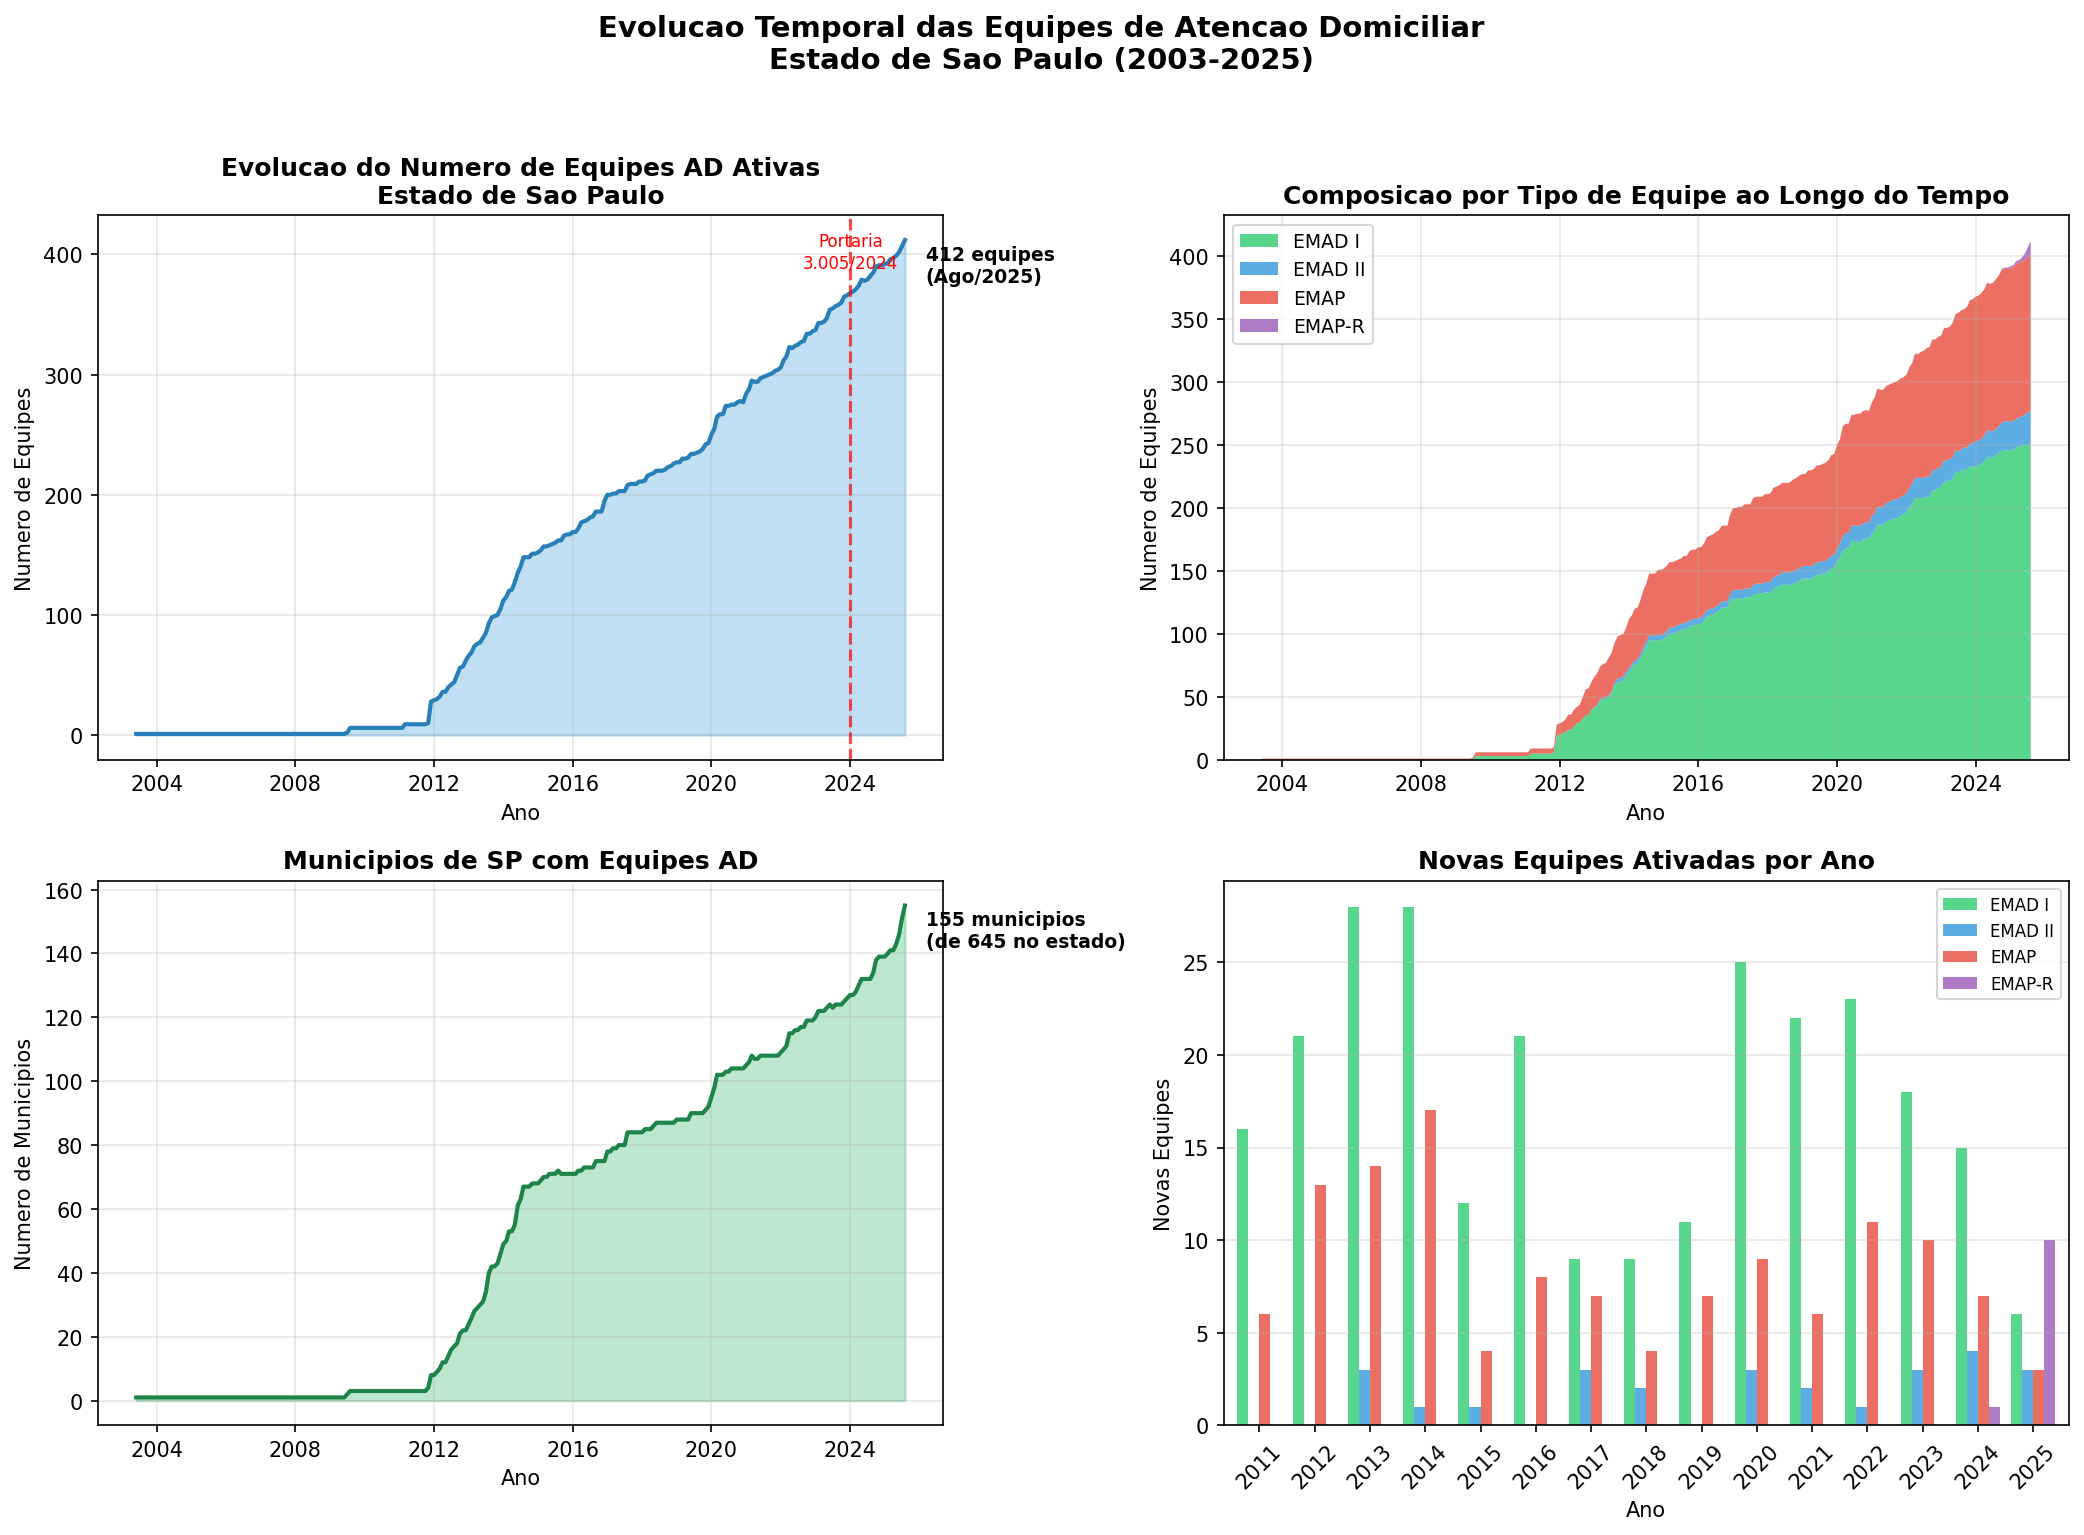
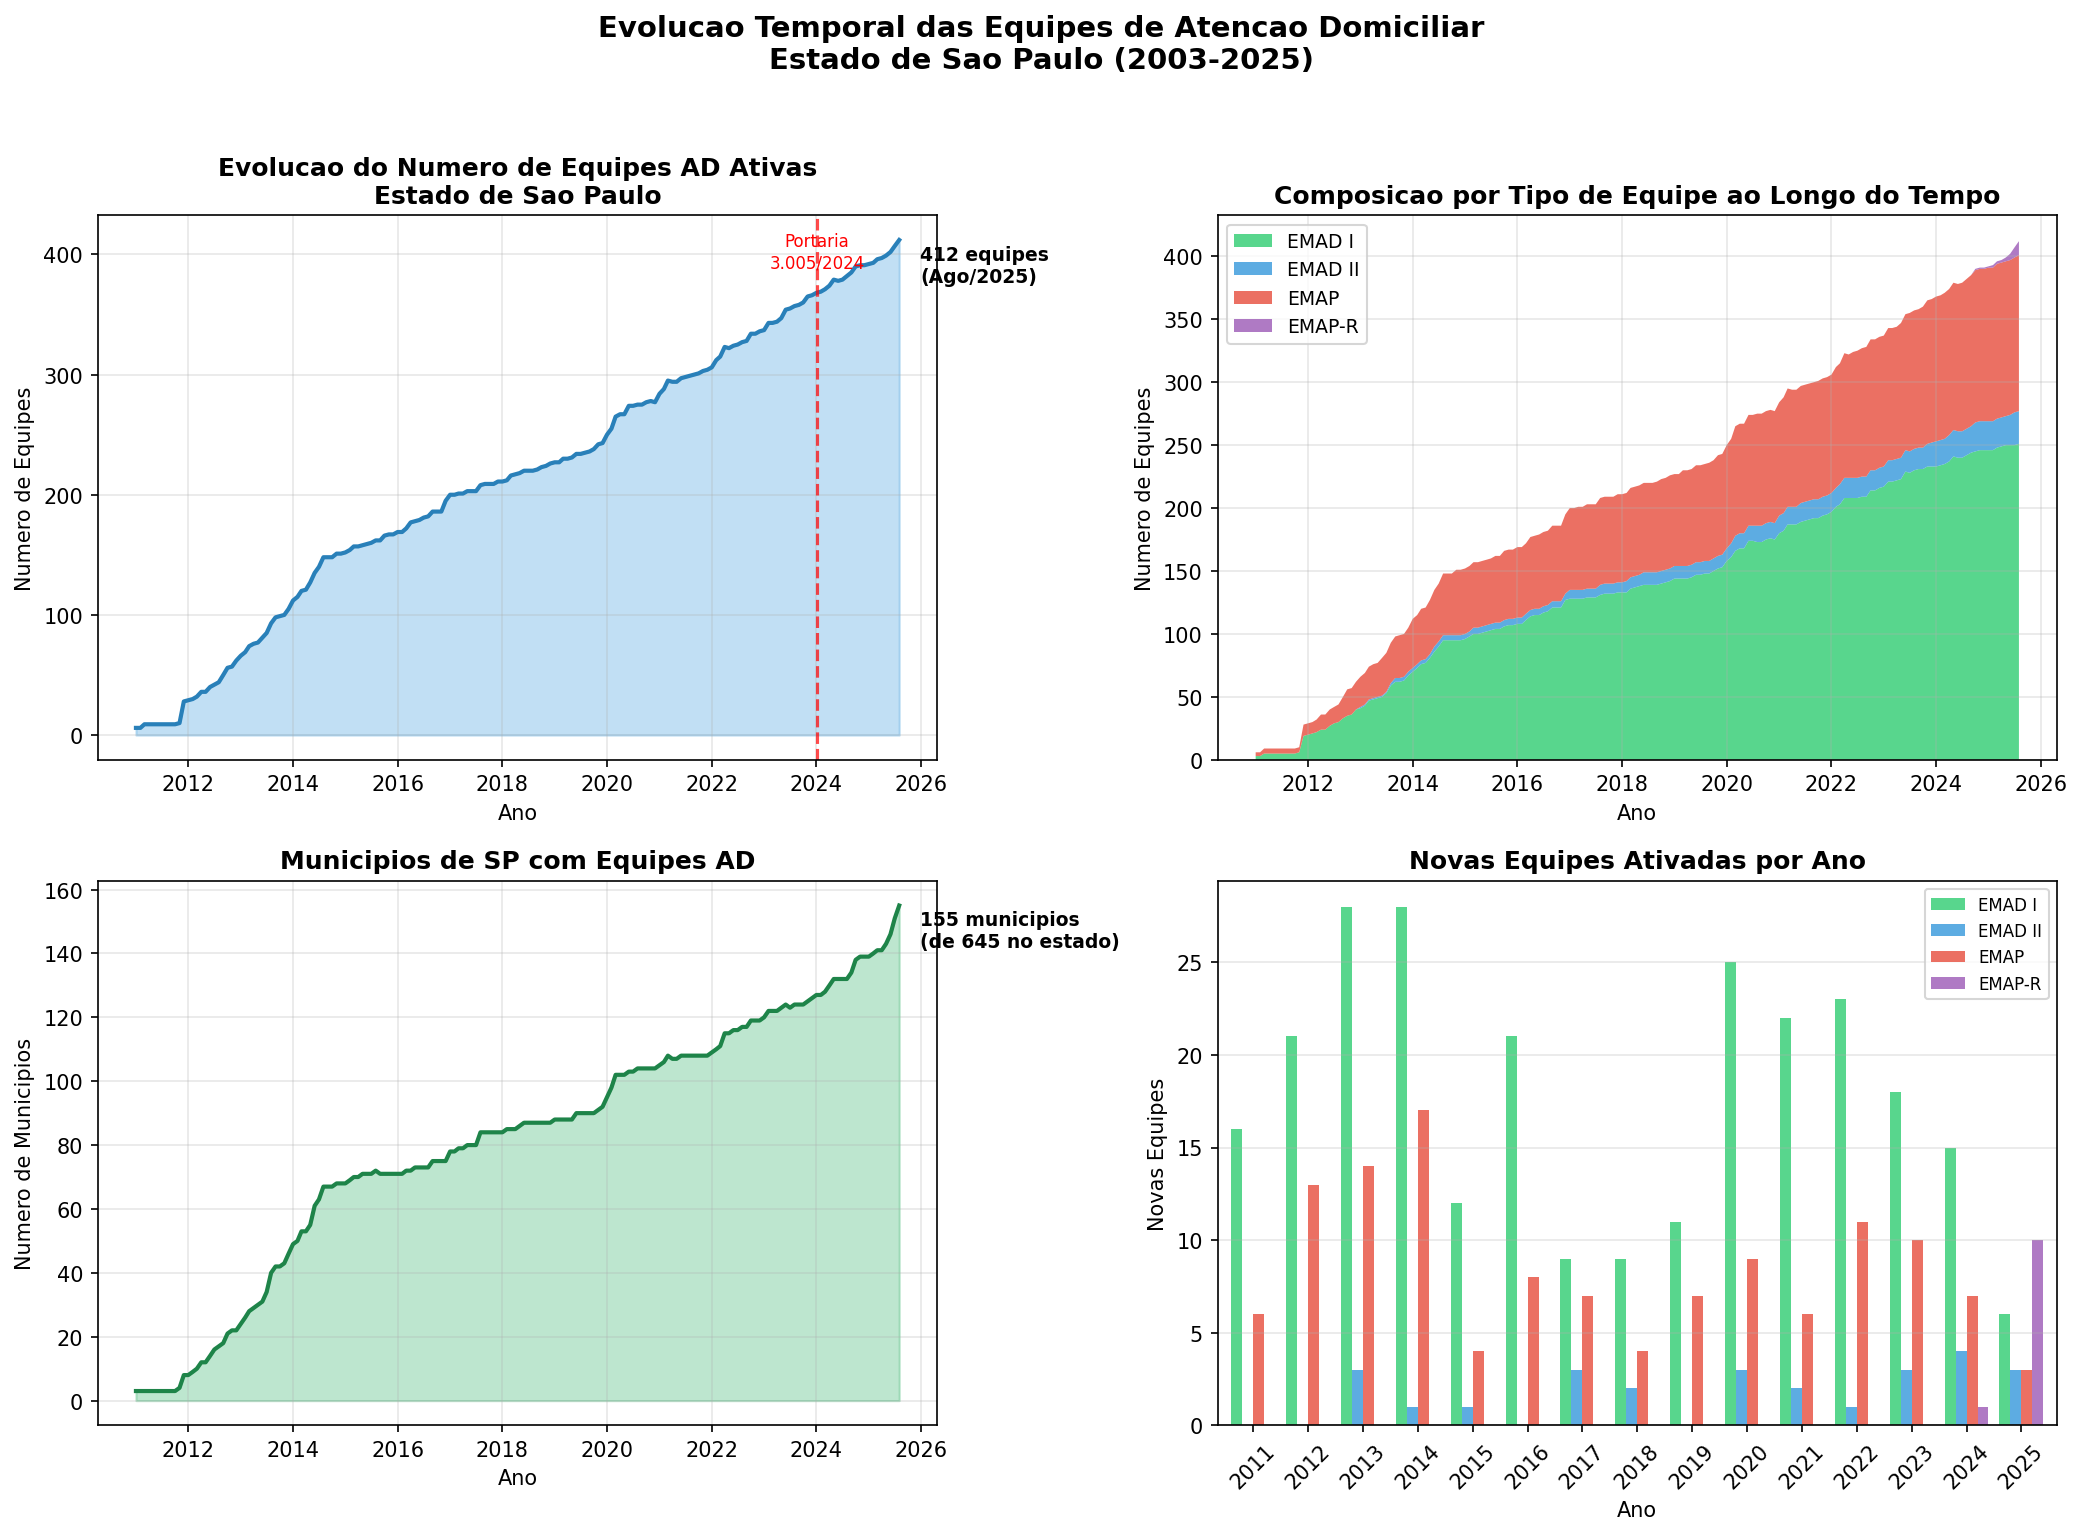
fix(PARTE4): corrige periodo temporal para 2011 (inicio Melhor em Casa)
- Programa Melhor em Casa foi criado em nov/2011 (Portaria 2.527/2011)
- CNES tem 6 registros anteriores (2003: 1, 2009: 5) de programas precursores
- Visualizacao agora comeca em 2011, nao em 2003
- README atualizado com nota explicativa sobre dados pre-2011

diff --git a/Outputs&Codigo/PARTE4/visualizacao_temporal.py b/Outputs&Codigo/PARTE4/visualizacao_temporal.py
@@ -66,8 +66,10 @@ def carregar_equipes():
 def calcular_evolucao_mensal(df):
     """Calcula numero de equipes ativas em cada mes."""
     
-    # Gerar serie de meses desde primeira ativacao ate hoje
-    data_inicio = df['DT_ATIVACAO'].min().replace(day=1)
+    # Programa Melhor em Casa foi criado em novembro de 2011
+    # Existem 6 registros anteriores no CNES (2003: 1, 2009: 5) que sao
+    # provavelmente equipes de programas precursores reclassificadas
+    data_inicio = datetime(2011, 1, 1)
     data_fim = datetime(2025, 8, 31)  # Dados ate agosto 2025
     
     meses = pd.date_range(start=data_inicio, end=data_fim, freq='MS')

diff --git a/Outputs&Codigo/PARTE4/README.md b/Outputs&Codigo/PARTE4/README.md
@@ -37,14 +37,19 @@ As equipes não-conformes têm exatamente **40h de enfermeiro** - estavam confor
 | `analise_conformidade_sp_estado.py` | Análise de conformidade Estado SP (412 equipes) |
 | `visualizacao_temporal.py` | Visualização da evolução temporal das equipes |
 | `conformidade_legal_sp_estado.csv` | Resultado detalhado por equipe |
-| `evolucao_temporal_ad_sp.png` | Gráfico de evolução 2003-2025 |
+| `evolucao_temporal_ad_sp.png` | Gráfico de evolução 2011-2025 |
 
 ---
 
-## Evolução Temporal (2003-2025)
+## Evolução Temporal (2011-2025)
+
+O **Programa Melhor em Casa** foi instituído em **novembro de 2011** pela Portaria GM/MS nº 2.527/2011.
+
+> **Nota**: O CNES contém 6 registros de equipes AD anteriores a 2011 (1 em 2003, 5 em 2009), provavelmente de programas precursores de atenção domiciliar que foram reclassificados. A visualização considera o período a partir de 2011.
 
 | Ano | Equipes Ativas | Municípios |
 |:---:|:--------------:|:----------:|
+| 2011 | 6 | 5 |
 | 2015 | 167 | 71 |
 | 2020 | 277 | 104 |
 | 2024 | 391 | 139 |
